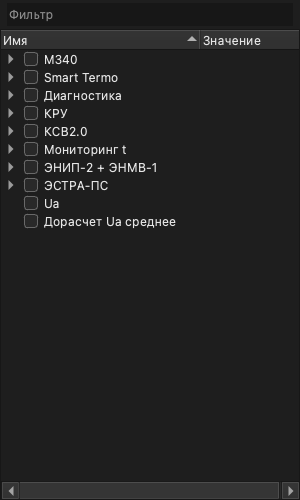
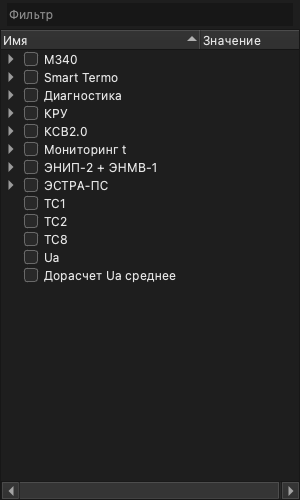
screenshots: the fixture loader kept one parent per node and dropped the rest (783)
`PopulateFixtureNodes` built its child->parent index as
`unordered_map<NodeId, NodeId>` with `parent_map[child_id] = parent`, so a child
declared under two parents had its first edge silently overwritten and the
address space only ever received the last one. `tree` declares 153 edges over 141
distinct children and twelve children carry two parents, so twelve edges were
dropped on every run since multi-parenting entered the fixture.

Diagnosed by the screenshot-generator session, who found the eight lines and the
ordering; verified here against the fixture and the renders before taking it.

THE LOSS WAS INVISIBLE BECAUSE OF WHICH PARENT SURVIVED. `boost::json::object`
preserves insertion order, so the survivor is whichever parent appears last in
the file -- and in both affected captures that was somewhere the image could not
show:

- TC1/TC2/TC8 kept `TS.109` КРУ, which renders collapsed, so they vanished from
  devices.png's top level. Ten rows where SCADA.24 declares thirteen.
- ЭНИП-2/ЭНМВ-1 kept `TS.112`, which belongs to the Objects tree and appears
  nowhere in the hardware tree, so they vanished from hardware-tree.png
  altogether. Five rows where SCADA.30 declares seven.

That is also what refuted the cause 783 was filed with. `CreateTreeNodeIfMatches`
keys its duplicate check on (node_id, reference_type_id, forward) with no parent,
which would have explained devices.png -- but not hardware-tree.png, where inside
[…]

Changed region(s): [[0.06, 0.39, 0.6, 0.57]]

diff --git a/tools/screenshot_generator/fixture_builder.cpp b/tools/screenshot_generator/fixture_builder.cpp
@@ -24,6 +24,7 @@
 
 #include <boost/json.hpp>
 
+#include <span>
 #include <string>
 #include <unordered_map>
 #include <utility>
@@ -176,14 +177,32 @@ Page MakeScreenshotPage(const std::vector<ScreenshotSpec>& specs,
 
 void PopulateFixtureNodes(AddressSpaceImpl& address_space,
                           const boost::json::value& root) {
-  // Build child→parent map from the JSON tree so each instance can find
-  // the existing node it should attach to.
-  std::unordered_map<scada::NodeId, scada::NodeId> parent_map;
+  // Build child→parents map from the JSON tree so each instance can find the
+  // existing node it should attach to.
+  //
+  // Every declared parent is kept, and a child with several is attached to all
+  // of them. This was a `map<NodeId, NodeId>` with `parent_map[child] = parent`
+  // until 2026-09-19, so a second declaration silently overwrote the first and
+  // the address space received one edge of the two — `tree` declares 153 edges
+  // over 141 distinct children, and 12 children carry two parents, so 12 edges
+  // were being dropped on every run. The loss was invisible because the
+  // survivor is whichever parent appears LAST in the file (boost::json::object
+  // preserves insertion order), and in both affected captures that parent was
+  // somewhere the image could not show: TC1/TC2/TC8 kept `TS.109` КРУ, which
+  // renders collapsed, so they vanished from devices.png's top level; ЭНИП-2
+  // and ЭНМВ-1 kept `TS.112`, which belongs to the Objects tree and appears
+  // nowhere in the hardware tree, so they vanished from hardware-tree.png
+  // entirely. Five rows missing across two tracked captures, and seven more
+  // nodes affected where nothing rendered them either way (backlog 783).
+  //
+  // A node reachable through two hierarchical references is ordinary OPC UA,
+  // and the fixture means it: those 40 extra edges are deliberate.
+  std::unordered_map<scada::NodeId, std::vector<scada::NodeId>> parent_map;
   for (const auto& [parent_str, children] : root.at("tree").as_object()) {
     auto parent = NodeIdFromScadaString(std::string_view(parent_str));
     for (const auto& child : children.as_array()) {
       auto child_id = ParseJsonChildNodeId(child);
-      parent_map[child_id] = parent;
+      parent_map[child_id].push_back(parent);
     }
   }
 
@@ -235,10 +254,27 @@ void PopulateFixtureNodes(AddressSpaceImpl& address_space,
       scada::base::Check(parent_it != parent_map.end(),
                          "fixture node lost its `tree` parent: " +
                              NodeIdToScadaString(node_id));
-      const auto& parent_id = parent_it->second;
+      // The node is CREATED under its first declared parent; every other
+      // declared parent becomes an ordinary reference once all the nodes
+      // exist, below. Defer until the creation parent is resident — the
+      // others need not be yet, since a pending reference is applied after
+      // the whole multi-pass loop has finished.
+      const std::vector<scada::NodeId>& parent_ids = parent_it->second;
+      scada::base::Check(!parent_ids.empty(),
+                         "fixture node has an empty parent list: " +
+                             NodeIdToScadaString(node_id));
+      const scada::NodeId& parent_id = parent_ids.front();
       if (!address_space.GetNode(parent_id)) {
         next.push_back(jn_ptr);
         continue;
+      }
+      for (const scada::NodeId& extra_parent :
+           std::span{parent_ids}.subspan(1)) {
+        pending_references.push_back(PendingReference{
+            .source_id = extra_parent,
+            .reference_type_id = scada::NodeId{scada::id::Organizes, 0},
+            .target_id = node_id,
+        });
       }
 
       const auto& cls = jn.at("class").as_string();
